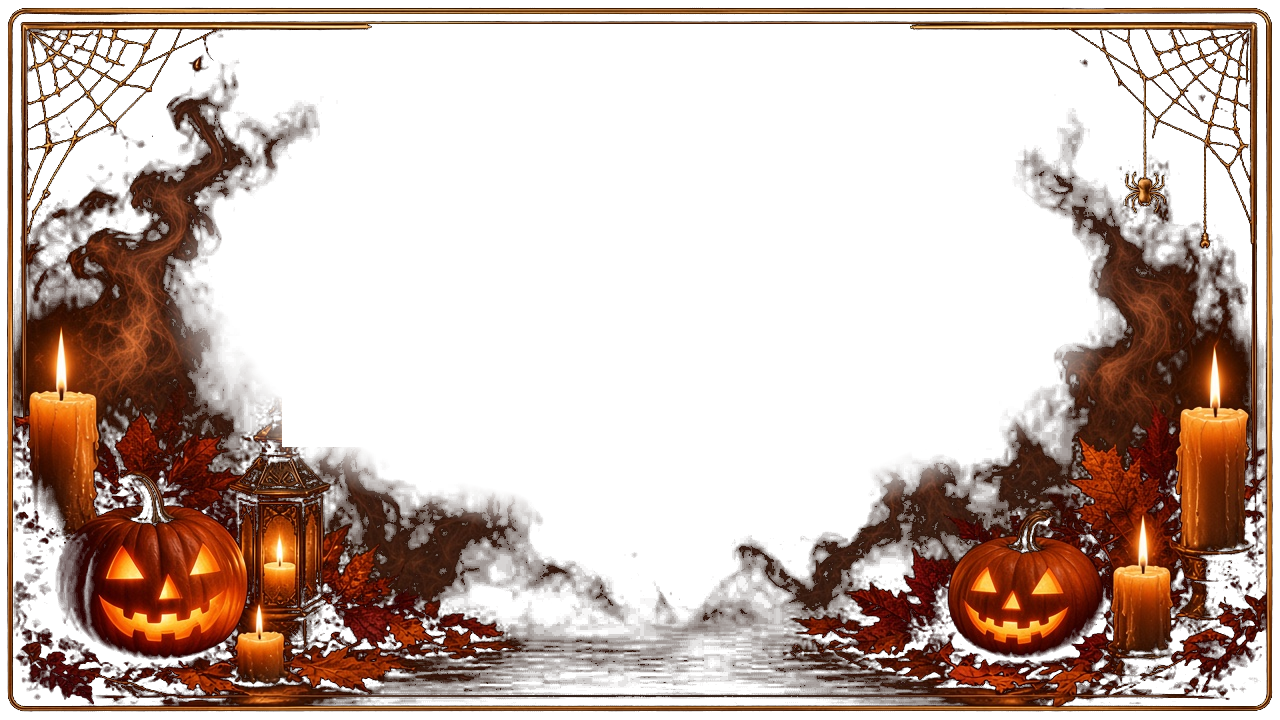
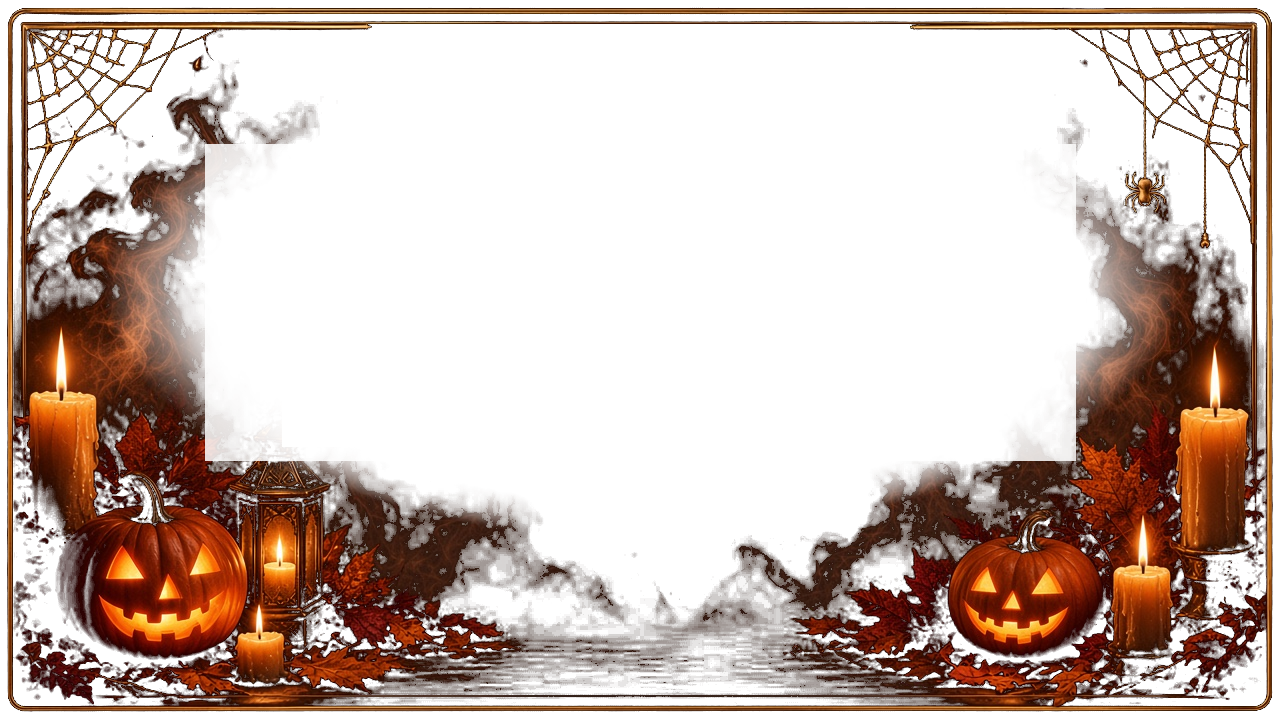
design: soften the ficha name plate and keep the photo clear
The lower panel is now slightly transparent so the type stays readable, while the portrait keeps the full decorative frame.

diff --git a/styles/halloween-cinematic.css b/styles/halloween-cinematic.css
@@ -869,7 +869,7 @@
   max-width:none!important;
   object-fit:fill;
   pointer-events:none;
-  opacity:1!important;
+  opacity:.55!important;
 }
 .vf-halloween-preview .vf-halloween-model-info,
 .vf-halloween-preview .vf-halloween-home-info,
@@ -883,9 +883,15 @@
   color:#f6d7a2!important;
   text-shadow:0 1px 8px rgba(0,0,0,.72);
 }
+.vf-halloween-preview .vf-halloween-model-info p,
+.vf-halloween-preview .vf-halloween-home-info p,
+.vf-halloween-preview .home-novedades-vf .vf-news-card__origin,
+.vf-halloween-preview .home-novedades-vf .vf-news-card__meta{
+  text-shadow:0 1px 5px rgba(0,0,0,.9);
+}
 .vf-halloween-preview .card-photo > .absolute.bottom-4{
   display:block!important;
-  bottom:20%!important;
+  bottom:18%!important;
   z-index:5!important;
   transform:translateX(-50%) translateY(0)!important;
   opacity:1!important;
